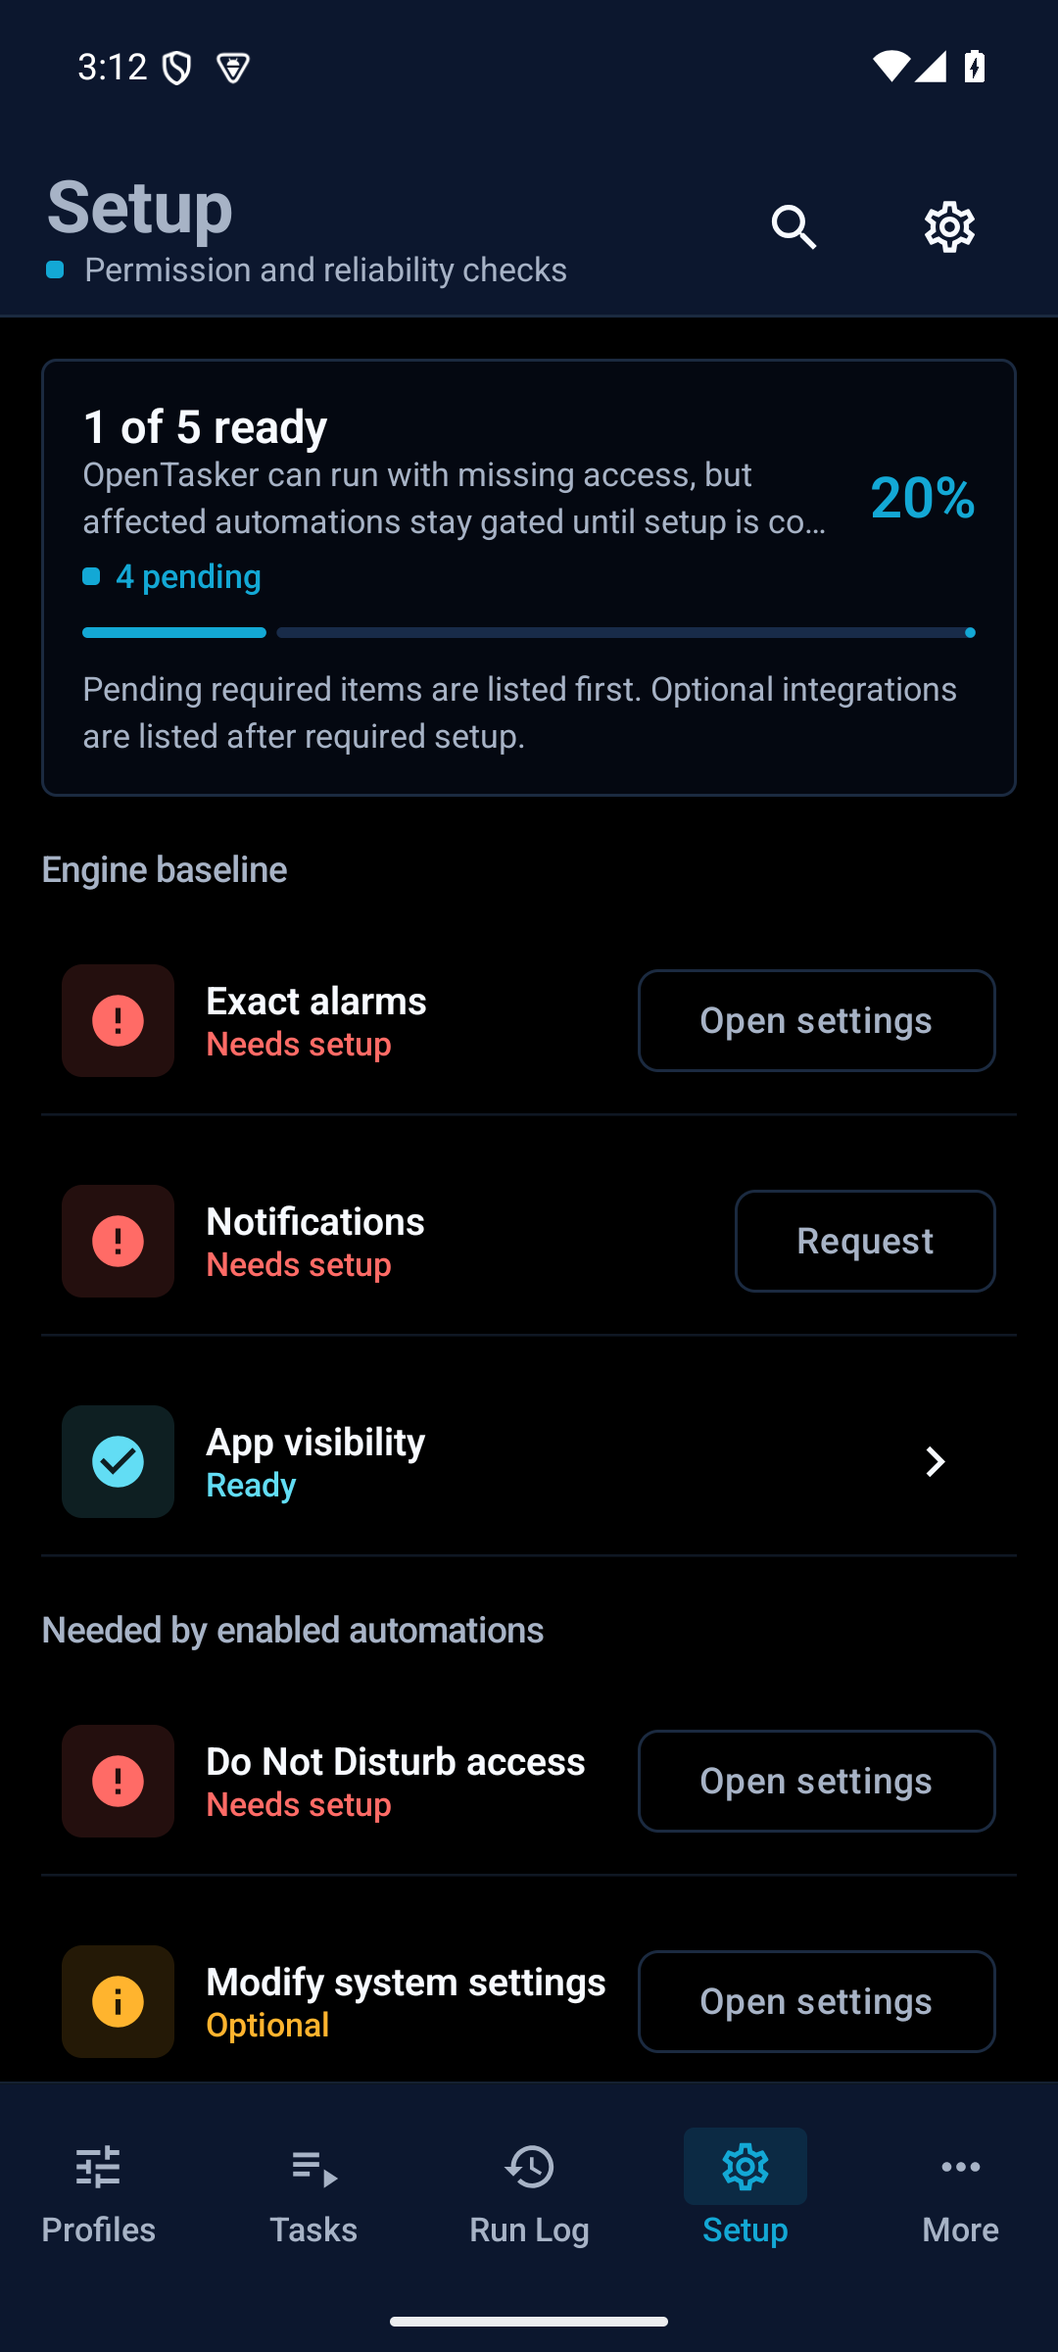
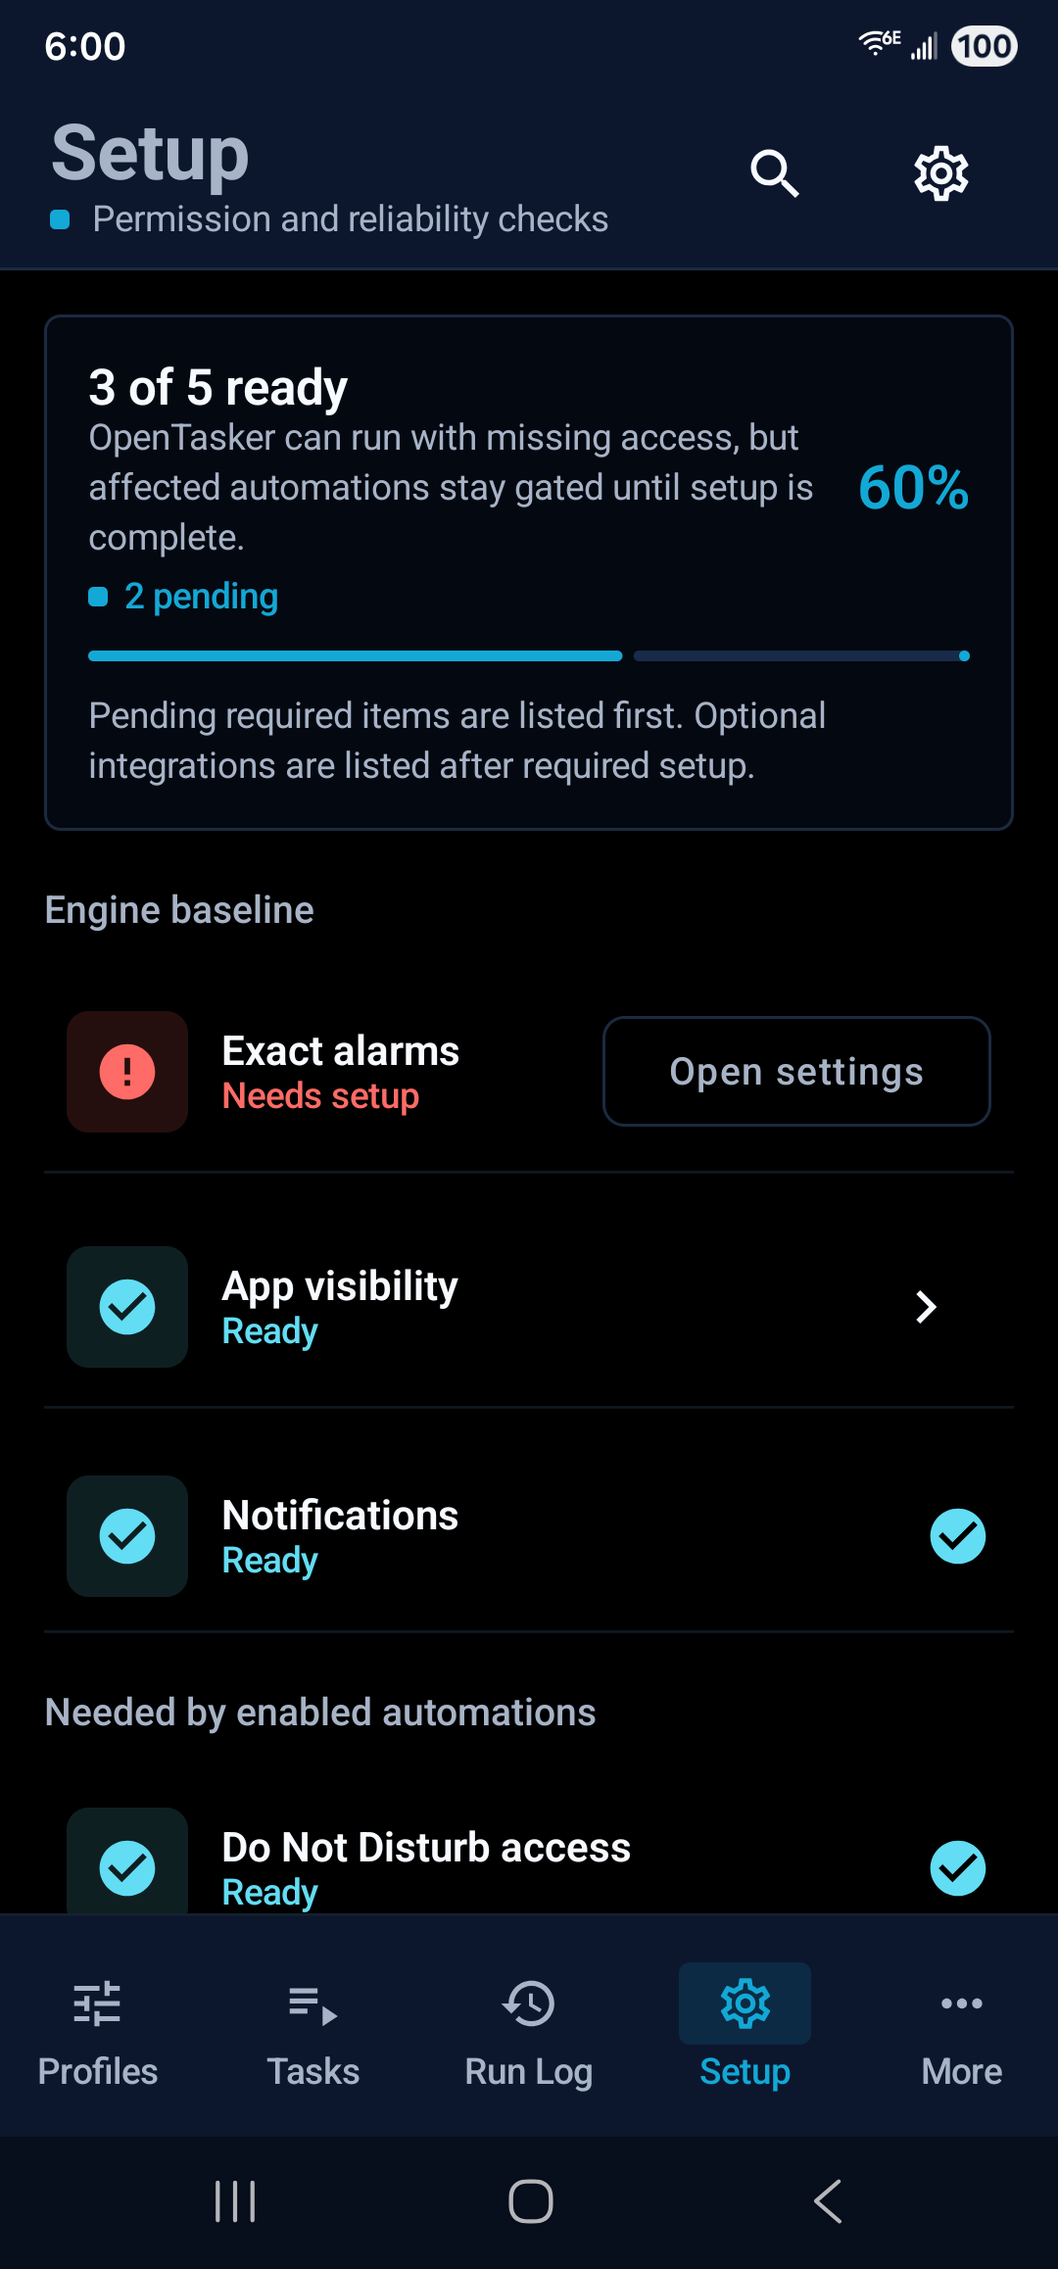
release: v0.2.94
Ships four security fixes that have been on master since v0.2.93 (a Quick
Settings tile that ran its task from the lock screen, a secret carried into
exports through a "Run only if" guard or an action label, a malformed push or
Locale broadcast from any app taking the automation service down, and secret
values typed on the ordinary keyboard), plus the Wi-Fi name and disconnect fix
for issue #17 and the Setup location request that did nothing on Android 12+.

- versionName 0.2.94, versionCode 96, across the build, README badge, fdroid
  metadata and release truth.
- CHANGELOG: Unreleased becomes v0.2.94; the four security fixes lead the
  Security list and the two Fixed lists are merged.
- Store changelog 96.txt names the four security fixes, the Wi-Fi fix and the
  Setup fix; it is the generator's output with the unreachable jsoup CVE line
  swapped for the two user-visible fixes.
- Store screenshots re-captured on a Galaxy S22 (1080x2316) from the current
  build, and the baseline profile regenerated there (24,620 rules); both
  stamps now read 96.
- README: the upgrade note says v0.2.93 and later carry the new key and tells
  you to install the current release rather than v0.2.93, the asset naming line
  no longer says "from the next release on" (the gate has existed since
  v0.2.88), and the locale threshold sentence loses a filler word.

diff --git a/CHANGELOG.md b/CHANGELOG.md
@@ -1,9 +1,28 @@
 # Changelog
 
-## Unreleased
+## v0.2.94
 
 ### Security
 
+- A Quick Settings tile no longer runs its task straight from the lock screen.
+  Anyone holding your phone could tap one and run whatever it was bound to, which
+  might send a message or run a script. The tap now waits for you to unlock and
+  then runs, so nothing is lost except the shortcut for someone who should not
+  have it. Devices with no lock set are unaffected.
+- Exporting a bundle no longer writes a secret you typed into a "Run only if"
+  guard or an action label. Only action arguments were cleaned, so a guard like
+  `%Pin == 4321` carried the value into the exported file, the paste text, and a
+  shared profile. The whole guard is replaced rather than just the secret inside
+  it, so an action that was guarded before export cannot come back unguarded,
+  and the export warns you that something needs re-entering.
+- Another app can no longer stop OpenTasker by sending it a malformed push or
+  Locale message. Both of those entry points are open to any app by design, and
+  reading a value the sending app deliberately made unreadable took the whole
+  automation service down with it. Such a message is now discarded and noted.
+- Secret variable values and the backup passphrase now use the password keyboard.
+  They were masked on screen but typed as ordinary text, so the keyboard's
+  autocorrect and personal dictionary could learn them and offer them as a
+  suggestion in another app later.
 - Updated jsoup to 1.23.2, which fixes a denial of service in its XML parser
   (CVE-2026-75140). OpenTasker only ever fed that library HTML, so nothing here
   could reach the affected code, and a build check keeps it that way.
@@ -22,7 +41,6 @@
   as `sk-Live-ABC123` went out in the clear in the exported bundle, the paste
   text, a shared profile and the diagnostic report. It is the same credential
   either way.
-
 - Read data from HTML no longer accepts the selectors that can hang a task.
   `:matches()` and its variants, plus `[attr~=regex]`, are matched by a regular
   expression engine that certain patterns send into a search that runs for
@@ -31,73 +49,12 @@
   message naming the one you used and what to use instead. Every other selector
   is unchanged, including the `^=`, `$=` and `*=` attribute matches and
   `:contains()`.
-
 - Cards that open and close a section now tell a screen reader what they are
   and whether the section is already open. Seven of them, across Setup, the run
   log, the Inspector, the scene library and both automation lists, previously
   said only "double tap to activate", with the same words whether the next tap
   opened or closed. Finishing a backup, an import or a preflight is also spoken
   now instead of changing silently on screen.
-
-### Added
-
-- Importing from Tasker now understands three more of its actions. HTTP Request
-  arrives as an HTTP Request here, keeping the method, address, headers, body and
-  timeout; Set Clipboard and Write File arrive as themselves. A Write File set to
-  append becomes an append rather than a write, so importing one can no longer
-  wipe the file it was meant to add a line to. Anything the import cannot carry
-  across, such as query parameters or an attached file, is named in the import
-  review instead of being dropped quietly or put in the wrong box.
-
-- **Write Setting**, a new action that changes one Android setting by name, the way
-  Tasker's Custom Setting does. The Global and Secure tables need access that no app can
-  ask for and no settings screen offers: you grant it once from a computer, and a new
-  Setup row hands you the exact command, with the MIUI caveat noted. The System table
-  uses the Modify system settings access you may already have. Whatever you write is read
-  back afterwards, so a value Android quietly ignores is reported as a failure instead of
-  a success, and without the access the action refuses with the command in the message.
-  Settings that control what other apps are allowed to do are refused outright, whatever
-  the table: accessibility services, notification access, the keyboard, the package
-  verifier, installs from unknown sources and USB debugging among them. That access is
-  granted once and then stays, so a profile you import later must not be able to reach
-  those through it.
-- A profile can now trigger on a broadcast another app sends. Name the intent
-  action, and OpenTasker listens for that one action while the profile is
-  enabled and stops the moment you disable it. Extras come through as bounded
-  text, so a task can read `broadcast_extra_msg` the way it reads any other
-  variable, and anything too big or too complex to carry safely is dropped with
-  a note rather than half-copied. You can also filter on an extra's name or
-  value. Filtering on the sender is offered but rarely useful: Android only
-  names the sender when the sending app opts in to sharing its identity, and
-  almost nothing does, so the editor says as much where you type it.
-- The HTTP Request action can be restricted to a kind of connection: Wi-Fi,
-  mobile data, or anything unmetered. A restricted request is refused before
-  anything is sent, with a message naming what the connection actually is, and
-  the task preview says so too. It used to take a flow-control branch on a
-  connectivity variable, which raced the request it was guarding.
-- The overflow menu on any action in a task now offers "Run this action". It
-  runs that one action on its own, so tuning an HTTP call or a variable no
-  longer means running everything above it first. The run appears in the run log
-  under its own name. Flow-control markers are not offered, because an "if"
-  without its "end if" is not a smaller task.
-- Settings has an About section. It shows the version and build you are running,
-  links out to the source, the release notes and the licence, and offers a
-  "Report a problem" button that opens a new issue with your build and device
-  already filled in.
-- The Diagnostics screen can copy its redacted report to the clipboard. Sharing
-  it opened a chooser, which is awkward when what you want is to paste it into a
-  bug report.
-- A running import, export, or preview can be stopped. The review dialog's
-  button becomes Stop while work is in progress and says which step it is on,
-  instead of going grey and refusing to close.
-- Installing a starter template that needs a permission now opens Setup showing
-  just the grants that template is waiting on, instead of leaving the new
-  automation to fail on its first run with nothing explaining why.
-- Settings has a "Run onboarding again" action that reopens the starter
-  templates.
-
-### Fixed
-
 - The "all Bluetooth devices disconnected" and "some connected" triggers recover
   after you turn your Bluetooth profiles off and on again. OpenTasker stops
   listening while none are enabled, so anything that disconnected in the meantime
@@ -112,29 +69,10 @@
   Only a run that finished normally saved them, so a profile set to restart on
   every trigger lost the values on every restart but the last, and the run log
   still showed the write that had been thrown away.
-- Exporting a bundle no longer writes a secret you typed into a "Run only if"
-  guard or an action label. Only action arguments were cleaned, so a guard like
-  `%Pin == 4321` carried the value into the exported file, the paste text, and a
-  shared profile. The whole guard is replaced rather than just the secret inside
-  it, so an action that was guarded before export cannot come back unguarded,
-  and the export warns you that something needs re-entering.
 - Setup counts what it shows you. The progress line counted by section while the
   rows were marked required or optional by a different rule, so a fresh install
   read "1 of 3 ready" above four rows marked Required. The sentence under it no
   longer cuts off mid-word either.
-- A Quick Settings tile no longer runs its task straight from the lock screen.
-  Anyone holding your phone could tap one and run whatever it was bound to, which
-  might send a message or run a script. The tap now waits for you to unlock and
-  then runs, so nothing is lost except the shortcut for someone who should not
-  have it. Devices with no lock set are unaffected.
-- Secret variable values and the backup passphrase now use the password keyboard.
-  They were masked on screen but typed as ordinary text, so the keyboard's
-  autocorrect and personal dictionary could learn them and offer them as a
-  suggestion in another app later.
-- Another app can no longer stop OpenTasker by sending it a malformed push or
-  Locale message. Both of those entry points are open to any app by design, and
-  reading a value the sending app deliberately made unreadable took the whole
-  automation service down with it. Such a message is now discarded and noted.
 - Tapping a notification button, or triggering a task from another app, now
   starts the automation engine properly when OpenTasker was not already running.
   It used to run that one task and then sit there looking healthy while no
@@ -191,6 +129,62 @@
   onboarding, so backing out of it does not hide the flow forever.
 - The F-Droid metadata gate no longer fails on a stale store-screenshot version
   stamp. The v0.2.93 bump left it recording the previous release's code.
+
+### Added
+
+- Importing from Tasker now understands three more of its actions. HTTP Request
+  arrives as an HTTP Request here, keeping the method, address, headers, body and
+  timeout; Set Clipboard and Write File arrive as themselves. A Write File set to
+  append becomes an append rather than a write, so importing one can no longer
+  wipe the file it was meant to add a line to. Anything the import cannot carry
+  across, such as query parameters or an attached file, is named in the import
+  review instead of being dropped quietly or put in the wrong box.
+- **Write Setting**, a new action that changes one Android setting by name, the way
+  Tasker's Custom Setting does. The Global and Secure tables need access that no app can
+  ask for and no settings screen offers: you grant it once from a computer, and a new
+  Setup row hands you the exact command, with the MIUI caveat noted. The System table
+  uses the Modify system settings access you may already have. Whatever you write is read
+  back afterwards, so a value Android quietly ignores is reported as a failure instead of
+  a success, and without the access the action refuses with the command in the message.
+  Settings that control what other apps are allowed to do are refused outright, whatever
+  the table: accessibility services, notification access, the keyboard, the package
+  verifier, installs from unknown sources and USB debugging among them. That access is
+  granted once and then stays, so a profile you import later must not be able to reach
+  those through it.
+- A profile can now trigger on a broadcast another app sends. Name the intent
+  action, and OpenTasker listens for that one action while the profile is
+  enabled and stops the moment you disable it. Extras come through as bounded
+  text, so a task can read `broadcast_extra_msg` the way it reads any other
+  variable, and anything too big or too complex to carry safely is dropped with
+  a note rather than half-copied. You can also filter on an extra's name or
+  value. Filtering on the sender is offered but rarely useful: Android only
+  names the sender when the sending app opts in to sharing its identity, and
+  almost nothing does, so the editor says as much where you type it.
+- The HTTP Request action can be restricted to a kind of connection: Wi-Fi,
+  mobile data, or anything unmetered. A restricted request is refused before
+  anything is sent, with a message naming what the connection actually is, and
+  the task preview says so too. It used to take a flow-control branch on a
+  connectivity variable, which raced the request it was guarding.
+- The overflow menu on any action in a task now offers "Run this action". It
+  runs that one action on its own, so tuning an HTTP call or a variable no
+  longer means running everything above it first. The run appears in the run log
+  under its own name. Flow-control markers are not offered, because an "if"
+  without its "end if" is not a smaller task.
+- Settings has an About section. It shows the version and build you are running,
+  links out to the source, the release notes and the licence, and offers a
+  "Report a problem" button that opens a new issue with your build and device
+  already filled in.
+- The Diagnostics screen can copy its redacted report to the clipboard. Sharing
+  it opened a chooser, which is awkward when what you want is to paste it into a
+  bug report.
+- A running import, export, or preview can be stopped. The review dialog's
+  button becomes Stop while work is in progress and says which step it is on,
+  instead of going grey and refusing to close.
+- Installing a starter template that needs a permission now opens Setup showing
+  just the grants that template is waiting on, instead of leaving the new
+  automation to fail on its first run with nothing explaining why.
+- Settings has a "Run onboarding again" action that reopens the starter
+  templates.
 
 ### Changed
 

diff --git a/README.md b/README.md
@@ -1,6 +1,6 @@
 # OpenTasker
 
-[![Version](https://img.shields.io/badge/version-0.2.93-blue.svg)](https://github.com/SysAdminDoc/OpenTasker/releases)
+[![Version](https://img.shields.io/badge/version-0.2.94-blue.svg)](https://github.com/SysAdminDoc/OpenTasker/releases)
 [![License](https://img.shields.io/badge/license-MIT-green.svg)](LICENSE)
 [![Platform](https://img.shields.io/badge/platform-Android%208.0%2B-brightgreen.svg)](https://developer.android.com)
 [![Kotlin](https://img.shields.io/badge/kotlin-2.4.10-7f52ff.svg)](https://kotlinlang.org)
@@ -215,9 +215,9 @@ There is no F-Droid or IzzyOnDroid listing yet, so releases come from this repos
 
 **With [Obtainium](https://github.com/ImranR98/Obtainium)** (recommended, it tracks new releases for you): tap the Obtainium badge above on the device, or add `https://github.com/SysAdminDoc/OpenTasker` as a GitHub source. Default settings are correct, nothing needs configuring.
 
-**By hand:** download the APK attached to the [latest release](https://github.com/SysAdminDoc/OpenTasker/releases/latest) and install it. From the next release on, that file is named `OpenTasker-v<version>.apk`; `v0.2.87` and earlier predate the naming gate, and `v0.2.87` ships its APK as `app-release.apk`.
+**By hand:** download the APK attached to the [latest release](https://github.com/SysAdminDoc/OpenTasker/releases/latest) and install it. Since `v0.2.88` that file is named `OpenTasker-v<version>.apk`; `v0.2.87` and earlier predate the naming gate, and `v0.2.87` ships its APK as `app-release.apk`.
 
-**Upgrading from v0.2.92 or earlier?** v0.2.93 is signed with a new key, so Android refuses to install it over an older copy. The install fails with `INSTALL_FAILED_UPDATE_INCOMPATIBLE` until the old one is removed. Uninstalling also erases the automation database, so export a backup before you do anything else. Open Setup, export a copy of the database or an encrypted `.otbackup` snapshot to a folder you control, then uninstall the old build, install v0.2.93, and restore. A backup that only lives in app storage goes away with the app, so make sure the copy you keep is the exported one. Secret variable values stay bound to the device that created them and have to be re-entered after a restore. The previous key was published in this repository, which is why it was retired instead of reused.
+**Upgrading from v0.2.92 or earlier?** v0.2.93 and later are signed with a new key, so Android refuses to install them over an older copy. The install fails with `INSTALL_FAILED_UPDATE_INCOMPATIBLE` until the old one is removed. Uninstalling also erases the automation database, so export a backup before you do anything else. Open Setup, export a copy of the database or an encrypted `.otbackup` snapshot to a folder you control, then uninstall the old build, install the current release, and restore. A backup that only lives in app storage goes away with the app, so make sure the copy you keep is the exported one. Secret variable values stay bound to the device that created them and have to be re-entered after a restore. The previous key was published in this repository, which is why it was retired instead of reused.
 
 Releases tagged `v0.1.0`, `v0.3.0`, `v0.4.1` and `v0.4.2` are dead. All four carry versionCode 1 and were signed with a key that no longer exists, so they cannot be upgraded in place. Ignore them, and if you have one installed, uninstall before installing a current build. The live line is `v0.2.x`, and its newest tag is the one to take.
 
@@ -356,7 +356,7 @@ Issues and pull requests welcome. Open an issue to discuss a feature before buil
 
 ### Translations
 
-OpenTasker supports localization. The current release ships English only; English source copy lives in `app/src/main/res/values/strings.xml`, `action_catalog_strings.xml`, and `dynamic_surface_strings.xml`. The app uses AGP's generated per-app language configuration with `en-US` as the default. An alternate locale is included in a release only after at least 80% of the default `<string>` resources have genuinely translated values; incomplete or empty locale directories are rejected by the release gate. Debug builds enable Android's `en-XA` and `ar-XB` pseudolocales for expansion and right-to-left checks. To contribute a translation:
+OpenTasker supports localization. The current release ships English only; English source copy lives in `app/src/main/res/values/strings.xml`, `action_catalog_strings.xml`, and `dynamic_surface_strings.xml`. The app uses AGP's generated per-app language configuration with `en-US` as the default. An alternate locale is included in a release only after at least 80% of the default `<string>` resources are translated; incomplete or empty locale directories are rejected by the release gate. Debug builds enable Android's `en-XA` and `ar-XB` pseudolocales for expansion and right-to-left checks. To contribute a translation:
 
 1. Copy the three translatable XML files from `app/src/main/res/values/` to `app/src/main/res/values-<locale>/`
 2. Translate only the string values (not the `name` attributes)
